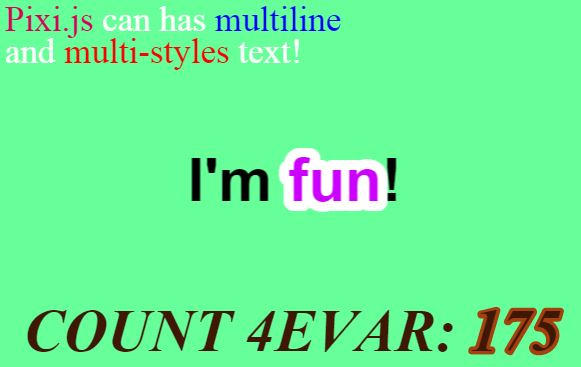
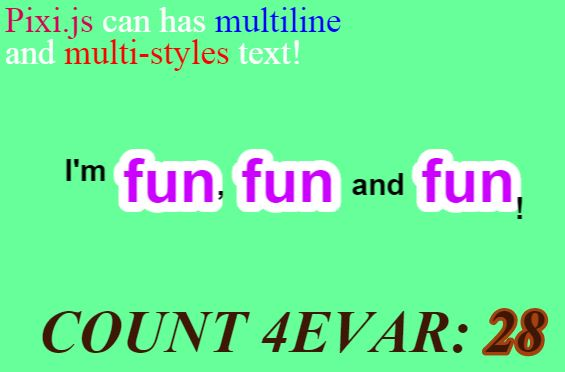
added vertical alignment setting

Changed region(s): [[0.0903, 0.3896, 0.9327, 0.5995], [0.0301, 0.8093, 0.9929, 0.9891], [0.0, 0.0, 0.6018, 0.2098]]

diff --git a/pixi-multistyle-text.min.js b/pixi-multistyle-text.min.js
@@ -5,4 +5,4 @@
  * Released under the MIT license
  * See https://github.com/tleunen/pixi-multistyle-text for more details
  */
-(function(){function a(a){a=a||{},a.font=a.font||"bold 20pt Arial",a.fill=a.fill||"black",a.stroke=a.stroke||"black",a.strokeThickness=a.strokeThickness||0,a.dropShadow=a.dropShadow||!1,a.dropShadowAngle=a.dropShadowAngle||Math.PI/6,a.dropShadowDistance=a.dropShadowDistance||4,a.dropShadowColor=a.dropShadowColor||"black"}var b=this,c=b.PIXI;if(c){var d=function(a,b,d){c.Text.call(this,a,d),this.setTextStyles(b)};d.prototype=Object.create(c.Text.prototype),d.prototype.constructor=d,d.prototype.setAlignmentStyle=d.prototype.setStyle=function(a){a=a||{},a.align=a.align||"left",a.wordWrap=a.wordWrap||!1,a.wordWrapWidth=a.wordWrapWidth||100,this.style=a,this.dirty=!0},d.prototype.setTextStyles=function(b){for(var c in b)b.hasOwnProperty(c)&&a(b[c]);b.def||(b.def={},a(b.def)),this.textStyles=b,this.dirty=!0},d.prototype._getTextDataPerLine=function(a){for(var b=[],c=/<\/?([a-z]+)>/g,d=this.textStyles.def,e=0;e<a.length;e++){for(var f,g=[],h=[];null!==(f=c.exec(a[e]))&&h.push(f););if(h.length){for(var i=0,j=0;j<h.length;j++)h[j].index>i&&g.push({text:a[e].substring(i,h[j].index),style:d}),d="/"==h[j][0][1]?this.textStyles.def:this.textStyles[h[j][1]]||this.textStyles.def,i=h[j].index+h[j][0].length;i<a[e].length&&g.push({text:a[e].substring(i),style:this.textStyles.def})}else g.push({text:a[e],style:d});b.push(g)}return b},d.prototype.updateText=function(){this.texture.baseTexture.resolution=this.resolution;var a,b,c=this.text,d=this.textStyles;this.style.wordWrap&&(c=this.wordWrap(this.text));var e=c.split(/(?:\r\n|\r|\n)/),f=this._getTextDataPerLine(e),g=[],h=[],i=0;for(a=0;a<e.length;a++){var j=0,k=0;for(b=0;b<f[a].length;b++)this.context.font=f[a][b].style.font,f[a][b].width=this.context.measureText(f[a][b].text).width,j+=f[a][b].width,f[a][b].fontProperties=this.determineFontProperties(f[a][b].style.font),k=Math.max(k,f[a][b].fontProperties.fontSize+f[a][b].style.strokeThickness);g[a]=j,h[a]=k,i=Math.max(i,j)}var l=Object.keys(d).map(function(a){return d[a]}),m=l.reduce(function(a,b){return Math.max(a,b.strokeThickness)},0),n=l.reduce(function(a,b){var c=b.dropShadow?b.dropShadowDistance:0;return Math.max(a,c)},0),o=i+m+n,p=Math.max.apply(null,h)*e.length+n;this.canvas.width=(o+this.context.lineWidth)*this.resolution,this.canvas.height=p*this.resolution,this.context.scale(this.resolution,this.resolution),navigator.isCocoonJS&&this.context.clearRect(0,0,this.canvas.width,this.canvas.height),this.context.textBaseline="alphabetic",this.context.lineJoin="round";var q,r;for(a=0;a<f.length;a++){var s=f[a];for(q=0,b=0;b<s.length;b++){var t=s[b].style,u=s[b].text,v=s[b].fontProperties;if(this.context.font=t.font,this.context.strokeStyle=t.stroke,this.context.lineWidth=t.strokeThickness,q+=m/2,r=m/2+a*h[a]+v.ascent,"right"===this.style.align?q+=i-g[a]:"center"===this.style.align&&(q+=(i-g[a])/2),t.dropShadow){this.context.fillStyle=t.dropShadowColor;var w=Math.sin(t.dropShadowAngle)*t.dropShadowDistance,x=Math.cos(t.dropShadowAngle)*t.dropShadowDistance;t.fill&&this.context.fillText(u,q+w,r+x)}this.context.fillStyle=t.fill,t.stroke&&t.strokeThickness&&this.context.strokeText(u,q,r),t.fill&&this.context.fillText(u,q,r),q+=s[b].width,q-=m/2}}this.updateTexture()},c.MultiStyleText=d}}).call(this);
+(function(){function a(a){a=a||{},a.font=a.font||"bold 20pt Arial",a.fill=a.fill||"black",a.stroke=a.stroke||"black",a.strokeThickness=a.strokeThickness||0,a.dropShadow=a.dropShadow||!1,a.dropShadowAngle=a.dropShadowAngle||Math.PI/6,a.dropShadowDistance=a.dropShadowDistance||4,a.dropShadowColor=a.dropShadowColor||"black"}function b(a,b){return{text:a,style:b,width:0,height:0,fontProperties:null}}var c=this,d=c.PIXI;if(d){var e=function(a,b,c){d.Text.call(this,a,c),this.setTextStyles(b)};e.prototype=Object.create(d.Text.prototype),e.prototype.constructor=e,e.prototype.setAlignmentStyle=e.prototype.setStyle=function(a){a=a||{},a.align=a.align||"left",a.wordWrap=a.wordWrap||!1,a.wordWrapWidth=a.wordWrapWidth||100,this.style=a,this.dirty=!0},e.prototype.setTextStyles=function(b){for(var c in b)b.hasOwnProperty(c)&&a(b[c]);b.def||(b.def={},a(b.def)),this.textStyles=b,this.dirty=!0},e.prototype._getTextDataPerLine=function(a){for(var c=[],d=Object.keys(this.textStyles).join("|"),e=new RegExp("</?("+d+")>","g"),f=this.textStyles.def,g=0;g<a.length;g++){for(var h,i=[],j=[];null!==(h=e.exec(a[g]))&&j.push(h););if(j.length){for(var k=0,l=0;l<j.length;l++)j[l].index>k&&i.push(b(a[g].substring(k,j[l].index),f)),f="/"==j[l][0][1]?this.textStyles.def:this.textStyles[j[l][1]]||this.textStyles.def,k=j[l].index+j[l][0].length;k<a[g].length&&i.push({text:a[g].substring(k),style:this.textStyles.def})}else i.push(b(a[g],f));c.push(i)}return c},e.prototype.updateText=function(){this.texture.baseTexture.resolution=this.resolution;var a,b,c=this.text,d=this.textStyles;this.style.wordWrap&&(c=this.wordWrap(this.text));var e=c.split(/(?:\r\n|\r|\n)/),f=this._getTextDataPerLine(e),g=[],h=[],i=0;for(a=0;a<e.length;a++){var j=0,k=0;for(b=0;b<f[a].length;b++)this.context.font=f[a][b].style.font,f[a][b].width=this.context.measureText(f[a][b].text).width,j+=f[a][b].width,f[a][b].fontProperties=this.determineFontProperties(f[a][b].style.font),f[a][b].height=f[a][b].fontProperties.fontSize+f[a][b].style.strokeThickness,k=Math.max(k,f[a][b].height);g[a]=j,h[a]=k,i=Math.max(i,j)}var l=Object.keys(d).map(function(a){return d[a]}),m=l.reduce(function(a,b){return Math.max(a,b.strokeThickness)},0),n=l.reduce(function(a,b){var c=b.dropShadow?b.dropShadowDistance:0;return Math.max(a,c)},0),o=i+m+n,p=Math.max.apply(null,h)*e.length+n;this.canvas.width=(o+this.context.lineWidth)*this.resolution,this.canvas.height=p*this.resolution,this.context.scale(this.resolution,this.resolution),navigator.isCocoonJS&&this.context.clearRect(0,0,this.canvas.width,this.canvas.height),this.context.textBaseline="alphabetic",this.context.lineJoin="round";var q,r;for(a=0;a<f.length;a++){var s=f[a];for(q=0,b=0;b<s.length;b++){var t=s[b].style,u=s[b].text,v=s[b].fontProperties;if(this.context.font=t.font,this.context.strokeStyle=t.stroke,this.context.lineWidth=t.strokeThickness,q+=m/2,r=m/2+a*h[a]+v.ascent,"right"===this.style.align?q+=i-g[a]:"center"===this.style.align&&(q+=(i-g[a])/2),"bottom"===t.valign?r+=h[a]-s[b].height-(m-t.strokeThickness)/2:"middle"===t.valign&&(r+=(h[a]-s[b].height)/2-(m-t.strokeThickness)/2),t.dropShadow){this.context.fillStyle=t.dropShadowColor;var w=Math.sin(t.dropShadowAngle)*t.dropShadowDistance,x=Math.cos(t.dropShadowAngle)*t.dropShadowDistance;t.fill&&this.context.fillText(u,q+w,r+x)}this.context.fillStyle=t.fill,t.stroke&&t.strokeThickness&&this.context.strokeText(u,q,r),t.fill&&this.context.fillText(u,q,r),q+=s[b].width,q-=m/2}}this.updateTexture()},d.MultiStyleText=e}}).call(this);

diff --git a/pixi-multistyle-text.js b/pixi-multistyle-text.js
@@ -20,14 +20,14 @@ if(!PIXI) return;
  * @constructor
  * @param text {String} The copy that you would like the text to display
  * @param [textStyles] {Object.<string, Style>} The text styles object parameters. A key of this object is a tag name, and the content must be a style object. The key `def` specifies the default styles. The style object is the same as the one in Pixi.Text.
- * @param [alignmentStyle] {Object} The global style parameters
- * @param [alignmentStyle.align='left'] {String} Alignment for multiline text ('left', 'center' or 'right'), does not affect single line text
- * @param [alignmentStyle.wordWrap=false] {Boolean} Indicates if word wrap should be used
- * @param [alignmentStyle.wordWrapWidth=100] {Number} The width at which text will wrap, it needs wordWrap to be set to true
+ * @param [lineStyle] {Object} The global style parameters
+ * @param [lineStyle.align='left'] {String} Alignment for multiline text ('left', 'center' or 'right'), does not affect single line text
+ * @param [lineStyle.wordWrap=false] {Boolean} Indicates if word wrap should be used
+ * @param [lineStyle.wordWrapWidth=100] {Number} The width at which text will wrap, it needs wordWrap to be set to true
  */
-var MultiStyleText = function(text, textStyles, alignmentStyle)
+var MultiStyleText = function(text, textStyles, lineStyle)
 {
-    PIXI.Text.call(this, text, alignmentStyle);
+    PIXI.Text.call(this, text, lineStyle);
 
     this.setTextStyles(textStyles);
 };
@@ -95,6 +95,16 @@ MultiStyleText.prototype.setTextStyles = function(styles)
     this.dirty = true;
 };
 
+function createTextData(text, style) {
+    return {
+        text: text,
+        style: style,
+        width: 0,
+        height: 0,
+        fontProperties: null
+    };
+}
+
 /**
  * Get the text data with each text group using specific styles
  *
@@ -121,10 +131,7 @@ MultiStyleText.prototype._getTextDataPerLine = function(lines) {
 
         // if there is no match, we still need to add the line with the default style
         if(!matches.length) {
-            lineTextData.push({
-                text: lines[i],
-                style: currentStyle
-            });
+            lineTextData.push(createTextData(lines[i], currentStyle));
         }
         else {
             // We got a match! add the text with the needed style
@@ -134,10 +141,10 @@ MultiStyleText.prototype._getTextDataPerLine = function(lines) {
                 // if index > 0, it means we have characters before the match,
                 // so we need to add it with the default style
                 if(matches[j].index > currentSearchIdx) {
-                    lineTextData.push({
-                        text: lines[i].substring(currentSearchIdx, matches[j].index),
-                        style: currentStyle
-                    });
+                    lineTextData.push(createTextData(
+                        lines[i].substring(currentSearchIdx, matches[j].index),
+                        currentStyle
+                    ));
                 }
 
                 // reset the style if end of tag
@@ -198,13 +205,16 @@ MultiStyleText.prototype.updateText = function()
         for(j=0; j<outputTextData[i].length; j++) {
             this.context.font = outputTextData[i][j].style.font;
 
-            // add lineWidth inside the text data
+            // save the width
             outputTextData[i][j].width = this.context.measureText(outputTextData[i][j].text).width;
             lineWidth += outputTextData[i][j].width;
 
-            // add the fontProperties inside the text data
+            // save the font properties
             outputTextData[i][j].fontProperties = this.determineFontProperties(outputTextData[i][j].style.font);
-            lineHeight = Math.max(lineHeight, outputTextData[i][j].fontProperties.fontSize + outputTextData[i][j].style.strokeThickness);
+
+            // save the height
+            outputTextData[i][j].height = outputTextData[i][j].fontProperties.fontSize + outputTextData[i][j].style.strokeThickness;
+            lineHeight = Math.max(lineHeight, outputTextData[i][j].height);
         }
 
         lineWidths[i] = lineWidth;
@@ -260,13 +270,21 @@ MultiStyleText.prototype.updateText = function()
             linePositionX += maxStrokeThickness / 2;
             linePositionY = (maxStrokeThickness / 2 + i * lineHeights[i]) + fontProperties.ascent;
 
-            if(this.style.align === 'right')
-            {
+            if(this.style.align === 'right') {
                 linePositionX += maxLineWidth - lineWidths[i];
             }
             else if(this.style.align === 'center')
             {
                 linePositionX += (maxLineWidth - lineWidths[i]) / 2;
+            }
+
+            if(textStyle.valign === 'bottom') {
+                linePositionY += lineHeights[i] - line[j].height -
+                    (maxStrokeThickness - textStyle.strokeThickness) / 2;
+            }
+            else if(textStyle.valign === 'middle') {
+                linePositionY += (lineHeights[i] - line[j].height) / 2 -
+                    (maxStrokeThickness - textStyle.strokeThickness) / 2;
             }
 
             // draw shadow

diff --git a/demo/index.html b/demo/index.html
@@ -36,10 +36,12 @@
         textSample.position.y = 20;
 
         // create a text object with a nice stroke
-        var spinningText = new PIXI.MultiStyleText("I'm <fun>fun</fun>!",
+        var spinningText = new PIXI.MultiStyleText("<iam>I'm</iam> fun<and>,</and> fun <and>and</and> fun<ding>!</ding>",
             {
-                def: { font: "bold 60px Arial", fill: "#000" },
-                fun: { font: "bold 60px Arial", fill: "#cc00ff", stroke: "#FFFFFF", strokeThickness: 20 },
+                def: { font: "bold 60px Arial", fill: "#cc00ff", stroke: "#fff", strokeThickness: 20 },
+                iam: { font: "bold 30px Arial", fill: "#000" },
+                and: { font: "bold 30px Arial", fill: "#000", valign: 'middle', stroke: "#fff", strokeThickness: 0 },
+                ding: { font: "bold 30px Arial", fill: "#000", valign: 'bottom' }
             },
             {
                 align: "center"

diff --git a/README.md b/README.md
@@ -22,7 +22,7 @@ var textSample = new PIXI.MultiStyleText("<pixi>Pixi.js</pixi> can has <multilin
 
 ## Usage
 
-### `text = new PIXI.MultiStyleText(text, textStyles [,alignmentStyle])`
+### `text = new PIXI.MultiStyleText(text, textStyles [,lineStyle])`
 
 Creates a new Multi-Styles Text with the given options
 
@@ -41,8 +41,9 @@ The style object can have these properties:
 - `dropShadowColor` {object} A fill style to be used on the dropshadow. Can be a color, a gradient, or a pattern. Default black.
 - `dropShadowAngle` {number} Set a angle of the drop shadow. Default Math.PI/4.
 - `dropShadowDistance` {number} Set a distance of the drop shadow. Default 5.
+- `valign` {string} Vertical alignment for multi font-size text ('top', 'middle', 'bottom'). Default 'top'.
 
-#### `alignmentStyle`
+#### `lineStyle`
 Type: `[Object]`
 
 - `align` {string} Alignment for multiline text ('left', 'center' or 'right'), does not affect single line text. Default left.
@@ -53,7 +54,7 @@ Type: `[Object]`
 
 - Open `demo/index.html` in a browser and you should see something like this:
 
-![img](http://i.imgur.com/lQZeHZ1.jpg)
+![img](http://i.imgur.com/l3JLKQC.jpg)
 
 ## License
 
